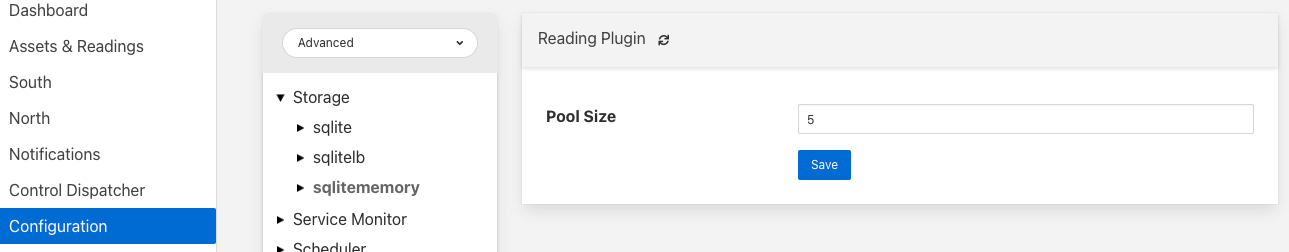
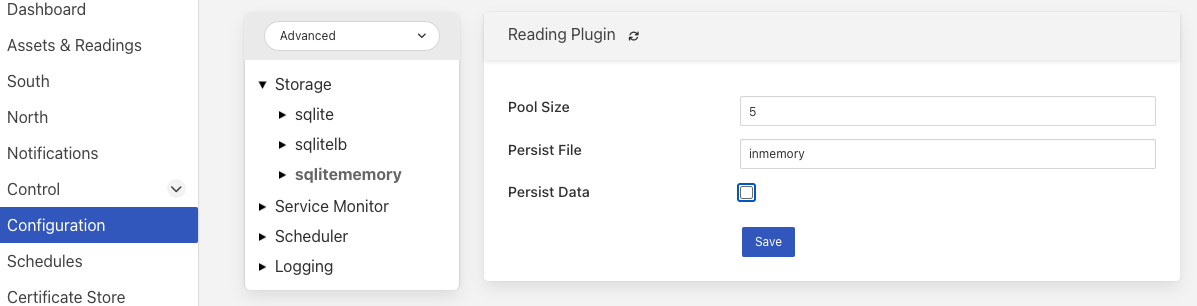
FOGL-7349 Add peristance of SQLite in memory database

diff --git a/C/plugins/storage/sqlitememory/connection.cpp b/C/plugins/storage/sqlitememory/connection.cpp
@@ -10,7 +10,9 @@
 
 #include <connection.h>
 #include <connection_manager.h>
-#include <common.h>
+#include <sqlite_common.h>
+#include <utils.h>
+#include <unistd.h>
 
 /**
  * SQLite3 storage plugin for Fledge
@@ -110,4 +112,81 @@ Connection::Connection()
 bool Connection::vacuum()
 {
 	return true;
+}
+
+/**
+ * Load the in memory database from a file backup
+ *
+ * @param filename	The name of the file to restore from
+ * @return bool		Success or failure of the backup
+ */
+bool Connection::loadDatabase(const string& filename)
+{
+int rc;
+sqlite3 *file;
+sqlite3_backup *backup;
+
+	string pathname = getDataDir() + "/";
+	pathname.append(filename);
+	pathname.append(".db");
+	if (access(pathname.c_str(), R_OK) != 0)
+	{
+		Logger::getLogger()->warn("Persisted database %s does not exist",
+				pathname.c_str());
+		return false;
+	}
+	if ((rc = sqlite3_open(pathname.c_str(), &file)) == SQLITE_OK)
+	{
+		if (backup = sqlite3_backup_init(dbHandle, READINGS_TABLE_MEM, file, "main"))
+		{
+			(void)sqlite3_backup_step(backup, -1);
+			(void)sqlite3_backup_finish(backup);
+			Logger::getLogger()->info("Reloaded persisted data to in memory database");
+		}
+		rc = sqlite3_errcode(dbHandle);
+
+		(void)sqlite3_close(file);
+	}
+	return rc == SQLITE_OK;
+}
+
+/**
+ * Backup the in memory database to a file
+ *
+ * @param filename	The name of the file to backup to
+ * @return bool		Success or failure of the backup
+ */
+bool Connection::saveDatabase(const string& filename)
+{
+int rc;
+sqlite3 *file;
+sqlite3_backup *backup;
+
+	string pathname = getDataDir() + "/";
+	pathname.append(filename);
+	pathname.append(".db");
+	unlink(pathname.c_str());
+	if ((rc = sqlite3_open(pathname.c_str(), &file)) == SQLITE_OK)
+	{
+		if (backup = sqlite3_backup_init(file, "main", dbHandle, READINGS_TABLE_MEM))
+		{
+			rc = sqlite3_backup_step(backup, -1);
+			Logger::getLogger()->fatal("FIXME: backupstep return %d", rc);
+			(void)sqlite3_backup_finish(backup);
+			Logger::getLogger()->info("Persisted data from in memory database to %s", pathname.c_str());
+		}
+		rc = sqlite3_errcode(file);
+		if (rc != SQLITE_OK)
+		{
+			Logger::getLogger()->warn("Persisting in-memory database failed: %s", sqlite3_errmsg(dbHandle));
+			Logger::getLogger()->warn("Persisting in-memory database failed: %s", sqlite3_errmsg(file));
+		}
+
+		(void)sqlite3_close(file);
+	}
+	else
+	{
+		Logger::getLogger()->warn("Failed to open database %s to persist in-memory data", pathname.c_str());
+	}
+	return rc == SQLITE_OK;
 }

diff --git a/C/plugins/storage/sqlitememory/plugin.cpp b/C/plugins/storage/sqlitememory/plugin.cpp
@@ -7,7 +7,7 @@
  *
  * Author: Massimiliano Pinto
  */
-
+#include <sqlite_common.h>
 #include <connection_manager.h>
 #include <connection.h>
 #include <plugin_api.h>
@@ -25,7 +25,6 @@
 #include <logger.h>
 #include <plugin_exception.h>
 #include <reading_stream.h>
-#include <common.h>
 
 using namespace std;
 using namespace rapidjson;
@@ -42,6 +41,21 @@ const char *default_config = QUOTE({
 			"default" : "5",
 			"displayName" : "Pool Size",
 			"order" : "1"
+		},
+		"filename" : {
+			"description" : "The name of the file to which the in memory database should be persisted",
+			"type" : "string",
+			"default" : "inmemory",
+			"displayName" : "Persist File",
+			"order" : "3",
+			"validity": "persist == \"true\""
+		},
+		"persist" : {
+			"description" : "Enable the persistance of the in memory database between executions",
+			"type" : "boolean",
+			"default" : "false",
+			"displayName" : "Persist Data",
+			"order" : "2"
 		}
 });
 
@@ -83,6 +97,27 @@ int poolSize = 5;
 		poolSize = strtol(category->getValue("poolSize").c_str(), NULL, 10);
 	}
 	manager->growPool(poolSize);
+	if (category->itemExists("persist"))
+	{
+		string p = category->getValue("persist");
+		if (p.compare("true") == 0 && category->itemExists("filename"))
+		{
+			manager->setPersist(true, category->getValue("filename"));
+		}
+		else
+		{
+			manager->setPersist(false);
+		}
+	}
+	else
+	{
+		manager->setPersist(false);
+	}
+	if (manager->persist())
+	{
+		Connection        *connection = manager->allocate();
+		connection->loadDatabase(manager->filename());
+	}
 	return manager;
 }
 /**
@@ -190,6 +225,11 @@ bool plugin_shutdown(PLUGIN_HANDLE handle)
 {
 ConnectionManager *manager = (ConnectionManager *)handle;
   
+	if (manager->persist())
+	{
+		Connection        *connection = manager->allocate();
+		connection->saveDatabase(manager->filename());
+	}
 	manager->shutdown();
 	return true;
 }

diff --git a/C/plugins/storage/sqlite/common/include/connection.h b/C/plugins/storage/sqlite/common/include/connection.h
@@ -23,28 +23,11 @@
 
 #define TRACK_CONNECTION_USER		0 // Set to 1 to get dianositcs about connection pool use
 
-#define _DB_NAME                  "/fledge.db"
-#define READINGS_DB_NAME_BASE     "readings"
 #define READINGS_DB_FILE_NAME     "/" READINGS_DB_NAME_BASE "_1.db"
 #define READINGS_DB               READINGS_DB_NAME_BASE "_1"
 #define READINGS_TABLE            "readings"
 #define READINGS_TABLE_MEM       READINGS_TABLE "_1"
 
-#define LEN_BUFFER_DATE 100
-#define F_TIMEH24_S             "%H:%M:%S"
-#define F_DATEH24_S             "%Y-%m-%d %H:%M:%S"
-#define F_DATEH24_M             "%Y-%m-%d %H:%M"
-#define F_DATEH24_H             "%Y-%m-%d %H"
-// This is the default datetime format in Fledge: 2018-05-03 18:15:00.622
-#define F_DATEH24_MS            "%Y-%m-%d %H:%M:%f"
-// Format up to seconds
-#define F_DATEH24_SEC           "%Y-%m-%d %H:%M:%S"
-#define SQLITE3_NOW             "strftime('%Y-%m-%d %H:%M:%f', 'now', 'localtime')"
-// The default precision is milliseconds, it adds microseconds and timezone
-#define SQLITE3_NOW_READING     "strftime('%Y-%m-%d %H:%M:%f000+00:00', 'now')"
-#define SQLITE3_FLEDGE_DATETIME_TYPE "DATETIME"
-
-#define  DB_CONFIGURATION "PRAGMA busy_timeout = 5000; PRAGMA cache_size = -4000; PRAGMA journal_mode = WAL; PRAGMA secure_delete = off; PRAGMA journal_size_limit = 4096000;"
 
 // Set plugin name for log messages
 #ifndef PLUGIN_LOG_NAME

diff --git a/C/plugins/storage/sqlite/common/include/sqlite_common.h b/C/plugins/storage/sqlite/common/include/sqlite_common.h
@@ -23,6 +23,29 @@
 #include <condition_variable>
 #include <sys/time.h>
 
+#define _DB_NAME                  "/fledge.db"
+#define READINGS_DB_NAME_BASE     "readings"
+
+#define  DB_CONFIGURATION "PRAGMA busy_timeout = 5000; PRAGMA cache_size = -4000; PRAGMA journal_mode = WAL; PRAGMA secure_delete = off; PRAGMA journal_size_limit = 4096000;"
+
+#define LEN_BUFFER_DATE 100
+#define F_TIMEH24_S             "%H:%M:%S"
+#define F_DATEH24_S             "%Y-%m-%d %H:%M:%S"
+#define F_DATEH24_M             "%Y-%m-%d %H:%M"
+#define F_DATEH24_H             "%Y-%m-%d %H"
+// This is the default datetime format in Fledge: 2018-05-03 18:15:00.622
+#define F_DATEH24_MS            "%Y-%m-%d %H:%M:%f"
+// Format up to seconds
+#define F_DATEH24_SEC           "%Y-%m-%d %H:%M:%S"
+#define SQLITE3_NOW             "strftime('%Y-%m-%d %H:%M:%f', 'now', 'localtime')"
+// The default precision is milliseconds, it adds microseconds and timezone
+#define SQLITE3_NOW_READING     "strftime('%Y-%m-%d %H:%M:%f000+00:00', 'now')"
+#define SQLITE3_FLEDGE_DATETIME_TYPE "DATETIME"
+
+#define	STORAGE_PURGE_RETAIN_ANY 0x0001U
+#define	STORAGE_PURGE_RETAIN_ALL 0x0002U
+#define STORAGE_PURGE_SIZE	 0x0004U
+
 static std::map<std::string, std::string> sqliteDateFormat = {
                                                 {"HH24:MI:SS",
                                                         F_TIMEH24_S},

diff --git a/C/plugins/storage/sqlitememory/include/connection.h b/C/plugins/storage/sqlitememory/include/connection.h
@@ -15,6 +15,11 @@
 #include <rapidjson/document.h>
 #include <sqlite3.h>
 
+WARNING: THIS FILE IS NOT USED
+
+#define	READINGS_TABLE		"readings"
+#define	READINGS_TABLE_MEM	READINGS_TABLE "_1"
+
 class Connection {
 	public:
 		Connection();
@@ -30,7 +35,9 @@ class Connection {
 		void		setTrace(bool flag) { m_logSQL = flag; };
 		static bool 	formatDate(char *formatted_date, size_t formatted_date_size, const char *date);
 		unsigned int	purgeReadingsAsset(const std::string& asset);
-		bool		vacuum() { return true; };
+		bool		vacuum();
+		bool		loadDatabase(const std::string& filname);
+		bool		saveDatabase(const std::string& filname);
 	private:
 		int 		SQLexec(sqlite3 *db, const char *sql,
 					int (*callback)(void*,int,char**,char**),

diff --git a/C/plugins/storage/sqlitelb/common/include/connection_manager.h b/C/plugins/storage/sqlitelb/common/include/connection_manager.h
@@ -37,7 +37,13 @@ class ConnectionManager {
 		void			  setVacuumInterval(long hours) {
 						m_vacuumInterval = 60 * 60 * hours;
 					  };
-
+		void			  setPersist(bool persist, const std::string& filename = "")
+					  {
+						m_persist = persist;
+						m_filename = filename;
+					   }
+		bool			   persist() { return m_persist; };
+		std::string		   filename() { return m_filename; };
 	protected:
 		ConnectionManager();
 
@@ -54,6 +60,8 @@ class ConnectionManager {
 		bool			     m_shutdown;
 		std::thread		     *m_background;
 		long			     m_vacuumInterval;
+		bool			     m_persist;
+		std::string	             m_filename;
 };
 
 #endif

diff --git a/C/plugins/storage/sqlitememory/include/connection_manager.h b/C/plugins/storage/sqlitememory/include/connection_manager.h
@@ -32,6 +32,13 @@ class MemConnectionManager {
 					     {
 						return &lastError;
 					     }
+		void			     setPersist(bool persist, const std::string& filename = "")
+					     {
+						     m_persist = persist;
+						     m_filename = filename;
+					     }
+		bool			     persist() { return m_persist; };
+		std::string		     filename() { return m_filename; };
 
 	private:
 		MemConnectionManager();
@@ -43,6 +50,8 @@ class MemConnectionManager {
 		std::mutex                   errorLock;
 		PLUGIN_ERROR		     lastError;
 		bool			     m_trace;
+		bool			     m_persist;
+		std::string		     m_filename;
 };
 
 #endif

diff --git a/C/plugins/storage/sqlitelb/common/include/connection.h b/C/plugins/storage/sqlitelb/common/include/connection.h
@@ -119,6 +119,10 @@ class Connection {
 		bool        	getNow(std::string& Now);
 		unsigned int	purgeReadingsAsset(const std::string& asset);
 		bool		vacuum();
+#ifdef MEMORY_READING_PLUGIN
+		bool		loadDatabase(const std::string& filname);
+		bool		saveDatabase(const std::string& filname);
+#endif
 
 	private:
 #ifndef MEMORY_READING_PLUGIN

diff --git a/C/plugins/storage/sqlite/common/readings_catalogue.cpp b/C/plugins/storage/sqlite/common/readings_catalogue.cpp
@@ -17,7 +17,7 @@
 #include <string_utils.h>
 #include <connection.h>
 #include <connection_manager.h>
-#include <common.h>
+#include <sqlite_common.h>
 #include "readings_catalogue.h"
 #include <purge_configuration.h>
 

diff --git a/C/plugins/storage/sqlite/common/readings.cpp b/C/plugins/storage/sqlite/common/readings.cpp
@@ -9,9 +9,9 @@
  */
 
 #include <math.h>
+#include <sqlite_common.h>
 #include <connection.h>
 #include <connection_manager.h>
-#include <common.h>
 #include <reading_stream.h>
 #include <random>
 #include <utils.h>

diff --git a/C/plugins/storage/sqlite/common/connection.cpp b/C/plugins/storage/sqlite/common/connection.cpp
@@ -7,9 +7,9 @@
  *
  * Author: Massimiliano Pinto
  */
+#include <sqlite_common.h>
 #include <connection.h>
 #include <connection_manager.h>
-#include <common.h>
 #include <utils.h>
 #include <unistd.h>
 

diff --git a/C/plugins/storage/sqlitelb/common/connection.cpp b/C/plugins/storage/sqlitelb/common/connection.cpp
@@ -9,7 +9,7 @@
  */
 #include <connection.h>
 #include <connection_manager.h>
-#include <common.h>
+#include <sqlite_common.h>
 #include <utils.h>
 #ifndef MEMORY_READING_PLUGIN
 #include <schema.h>
